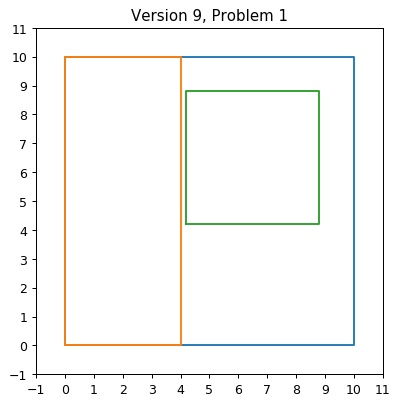
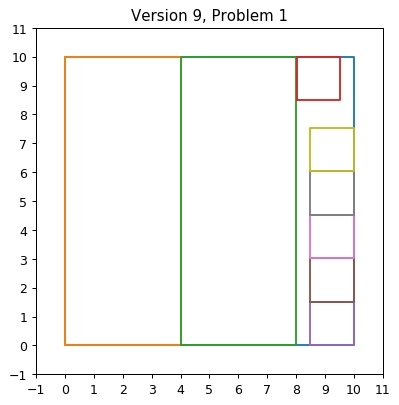
With new snapping feature (slow)

Changed region(s): [[0.4511, 0.1185, 0.9023, 0.8593]]

diff --git a/algorithm/algorithm_old.py b/algorithm/algorithm_old.py
@@ -3,20 +3,14 @@
 import math
 import os
 from shapely.geometry import Polygon
-from shapely.geometry import MultiPolygon
 from shapely.ops import transform
 from shapely.affinity import rotate
-from shapely.errors import PredicateError
 from matplotlib import pyplot
 
 PLOT_EACH_PROBLEM = False
 SAVE_PROBLEM = True
 VISUALISATION_FOLDER = os.path.join(os.path.dirname(__file__), "../outputs/output_visualisations_{}/")
 VISUALISATION_FILENAME = "{}.jpg"
-
-USE_SNAPPING_TECHNIQUE = True
-STEP_MULTIPLIER_PERCENTAGE = 5
-USE_SCAN_TECHNIQUE = False
 
 # Parameters:
 #   counter: integer
@@ -45,56 +39,27 @@ def solve(count, version, room, furniture):
     room_polygon = Polygon(room)
     counter = 1
     for f in furniture:
-        coords = None
         print("Problem {}, {}/{}".format(count, counter, len(furniture)), end="\r")
-        if type(room_polygon) is MultiPolygon or type(room_polygon) is list:
-            for i in room_polygon:
-                result = fits_in_room(i, room_polygon, Polygon(f[1]))
-                if result[1]:
-                    coords = result[1]
-                    room_polygon = [i if i != i else result[0] for i in room_polygon]
-                    break
-        else:
-            room_polygon,coords = fits_in_room(room_polygon, furniture_in_room_polygons, Polygon(f[1]))
+        coords = fits_in_room(room_polygon, furniture_in_room_polygons, Polygon(f[1]))
         if coords:
-            furniture_in_room.append(list(zip(*coords.exterior.xy))[:-1])
-            furniture_in_room_polygons.append(coords)
+            furniture_in_room.append(coords)
+            furniture_in_room_polygons.append(Polygon(coords))
         counter += 1
     if PLOT_EACH_PROBLEM or SAVE_PROBLEM:
-        plot(count, version, room, [Polygon(room)] + furniture_in_room_polygons)
+        plot(count, version, room, [room_polygon] + furniture_in_room_polygons)
     return furniture_in_room
 
 # Parameters:
 #   room_polygon: Polygon
 #   furniture_in_room_polygons: [Polygon]
 #   f: Polygon
-# Returns:
-#   (Polygon, None) or (Polygon, Polygon)
+# Returns None or [coordinates]
 def fits_in_room(room_polygon, furniture_in_room_polygons, f):
-    if f.area > room_polygon.area:
-        return (room_polygon, None)
-    for i in transformations(f, room_polygon.bounds[0], room_polygon.bounds[2], room_polygon.bounds[1], room_polygon.bounds[3], room_polygon):
-        for j in rotations(i[0], i[1]):
+    for i in transformations(f, room_polygon.bounds[0], room_polygon.bounds[2], room_polygon.bounds[1], room_polygon.bounds[3]):
+        for j in rotations(i):
             if check_with_coords(room_polygon, furniture_in_room_polygons, j):
-                return (new_room_polygon(room_polygon, j), j)
-    return (room_polygon, None)
-
-# Parameters:
-#   room_polygon: Polygon
-#   f: Polygon
-# Returns:
-#   Polygon
-def new_room_polygon(room_polygon, f):
-    if USE_SNAPPING_TECHNIQUE:
-        difference_polygon = room_polygon.difference(f)
-        i = 0.01
-        step = 0.01
-        while difference_polygon.intersects(f):
-            difference_polygon = room_polygon.difference(f.buffer(i, cap_style=2))
-            i += step
-        return difference_polygon
-    else:
-        return room_polygon
+                return j
+    return None
 
 # Parameters:
 #   room: Polygon
@@ -103,10 +68,9 @@ def new_room_polygon(room_polygon, f):
 # Returns True or False
 def check_with_coords(room, furniture_in_room, f):
     if is_inside(room, f):
-        if USE_SCAN_TECHNIQUE:
-            for room_f in furniture_in_room:
-                if not no_overlap(room_f, f):
-                    return False
+        for room_f in furniture_in_room:
+            if not no_overlap(room_f, f):
+                return False
         return True
     return False
 
@@ -115,54 +79,36 @@ def check_with_coords(room, furniture_in_room, f):
 #   f: Polygon
 # Returns True or False
 def is_inside(room, f):
-    try:
-        return f.within(room)
-    except PredicateError:
-        return False
- 
+    return f.within(room)
+
 # Parameters:
 #   f: Polygon
 #   min_x: double
 #   max_x: double
 #   min_y: double
 #   max_y: double
-#   room_polygon: Polygon
 # Returns Polygon
-def transformations(f, min_x, max_x, min_y, max_y, room_polygon):
-    if USE_SNAPPING_TECHNIQUE:
-        for i in list(zip(*room_polygon.exterior.coords.xy)):
-            for j in list(zip(*f.exterior.coords.xy)):
-                yield (transform(lambda x,y: (x + i[0] - j[0], y + i[1] - j[1]), f), i)
-    
-    if USE_SCAN_TECHNIQUE:
-        largest = max_x - min_x if max_x - min_x >= max_y - min_y else max_y - min_y
-        step = 0.01 * STEP_MULTIPLIER_PERCENTAGE * largest
-        i = min_x
-        while i < max_x:
-            j = min_y
-            while j < max_y:
-                yield (transform(lambda x,y: (x + i, y + i), f), None)
-                j += step
-            i += step
+def transformations(f, min_x, max_x, min_y, max_y):
+    largest = max_x - min_x if max_x - min_x >= max_y - min_y else max_y - min_y
+    step = 0.03 * largest
+    i = min_x
+    while i < max_x:
+        j = min_y
+        while j < max_y:
+            yield transform(lambda x,y: (x + i, y + i), f)
+            j += step
+        i += step
 
 # Parameters:
 #   f: Polygon
-#   rotation_point: coordinates
-#       where:
-#           coordinates: (double, double)
 # Returns Polygon
-def rotations(f, rotation_point):
-    iterator = [rotation_point] if rotation_point else []
-    iterator.append("centroid")
-    
-    for i in iterator:
-        theta = 0
-        step_in_degrees = 0.1
-        end = 2 * math.pi
-        a,b = list(zip(*f.exterior.coords.xy))[0]
-        while theta < end:
-            yield rotate(f, theta, i)
-            theta += step_in_degrees
+def rotations(f):
+    theta = 0
+    step_in_degrees = 1
+    end = 2 * math.pi
+    while theta < end:
+        yield rotate(f, theta, "centroid")
+        theta += step_in_degrees
 
 # Parameters:
 #   room_furniture: Polygon

diff --git a/algorithm/main.py b/algorithm/main.py
@@ -1,7 +1,8 @@
 #!/usr/bin/python3
 
 import parser
-import algorithm
+#import algorithm_old as algorithm
+impoort algorithm
 import coverage_calculator
 import time
 import sys
@@ -21,6 +22,7 @@ def start(input_file, output_file, version):
                 resulting_string = algorithm.solve_problem(counter, version, problem)
                 if not resulting_string.replace(" ", ""):
                     print("Problem {} not completed due to no result found".format(counter))
+                    counter += 1
                     continue
                 output.write("{}: {}\n".format(counter, resulting_string))
             problem_coverage_results = coverage_calculator.go(input_file, output_file, counter)
@@ -33,6 +35,7 @@ def start(input_file, output_file, version):
             counter += 1
 
 if __name__ == "__main__":
+    start(sys.argv[1], sys.argv[2].format(sys.argv[3]), sys.argv[3])
     try:
         start(sys.argv[1], sys.argv[2].format(sys.argv[3]), sys.argv[3])
     except Exception as e:

diff --git a/README.md b/README.md
@@ -17,10 +17,10 @@ The Room Furnishing Problem
 - __Version 1__ - Initial algorithm with efficiency improvements *[Problems 1-10]*
 - __Version 2__ - With smaller transformation steps (0.1) *[Problems 1-9]*
 - __Version 4__ - Change to cost queue *[Problems 1-9]*
-- __Version 5__ - Running problems 24 onwards
+- __Version 5__ - Running problem 25
 - __Version 7__ - Fixed rotations and made step now 5% of room size
 - __Version 8__ - With new snapping feature
 - __Version 3__ - With transformation steps of 0.5
 - __Version 6__ - Made transformation step relative to room size
-- __Version 9__ - With no snapping, and step muliplier on 3%
-- __Version 10__ - With snapping and step multiplier on 5%
+- __Version 9__ - Snapping algorithm fixed
+- __Version 10__ - Snapping off, scanning on and 5% step
